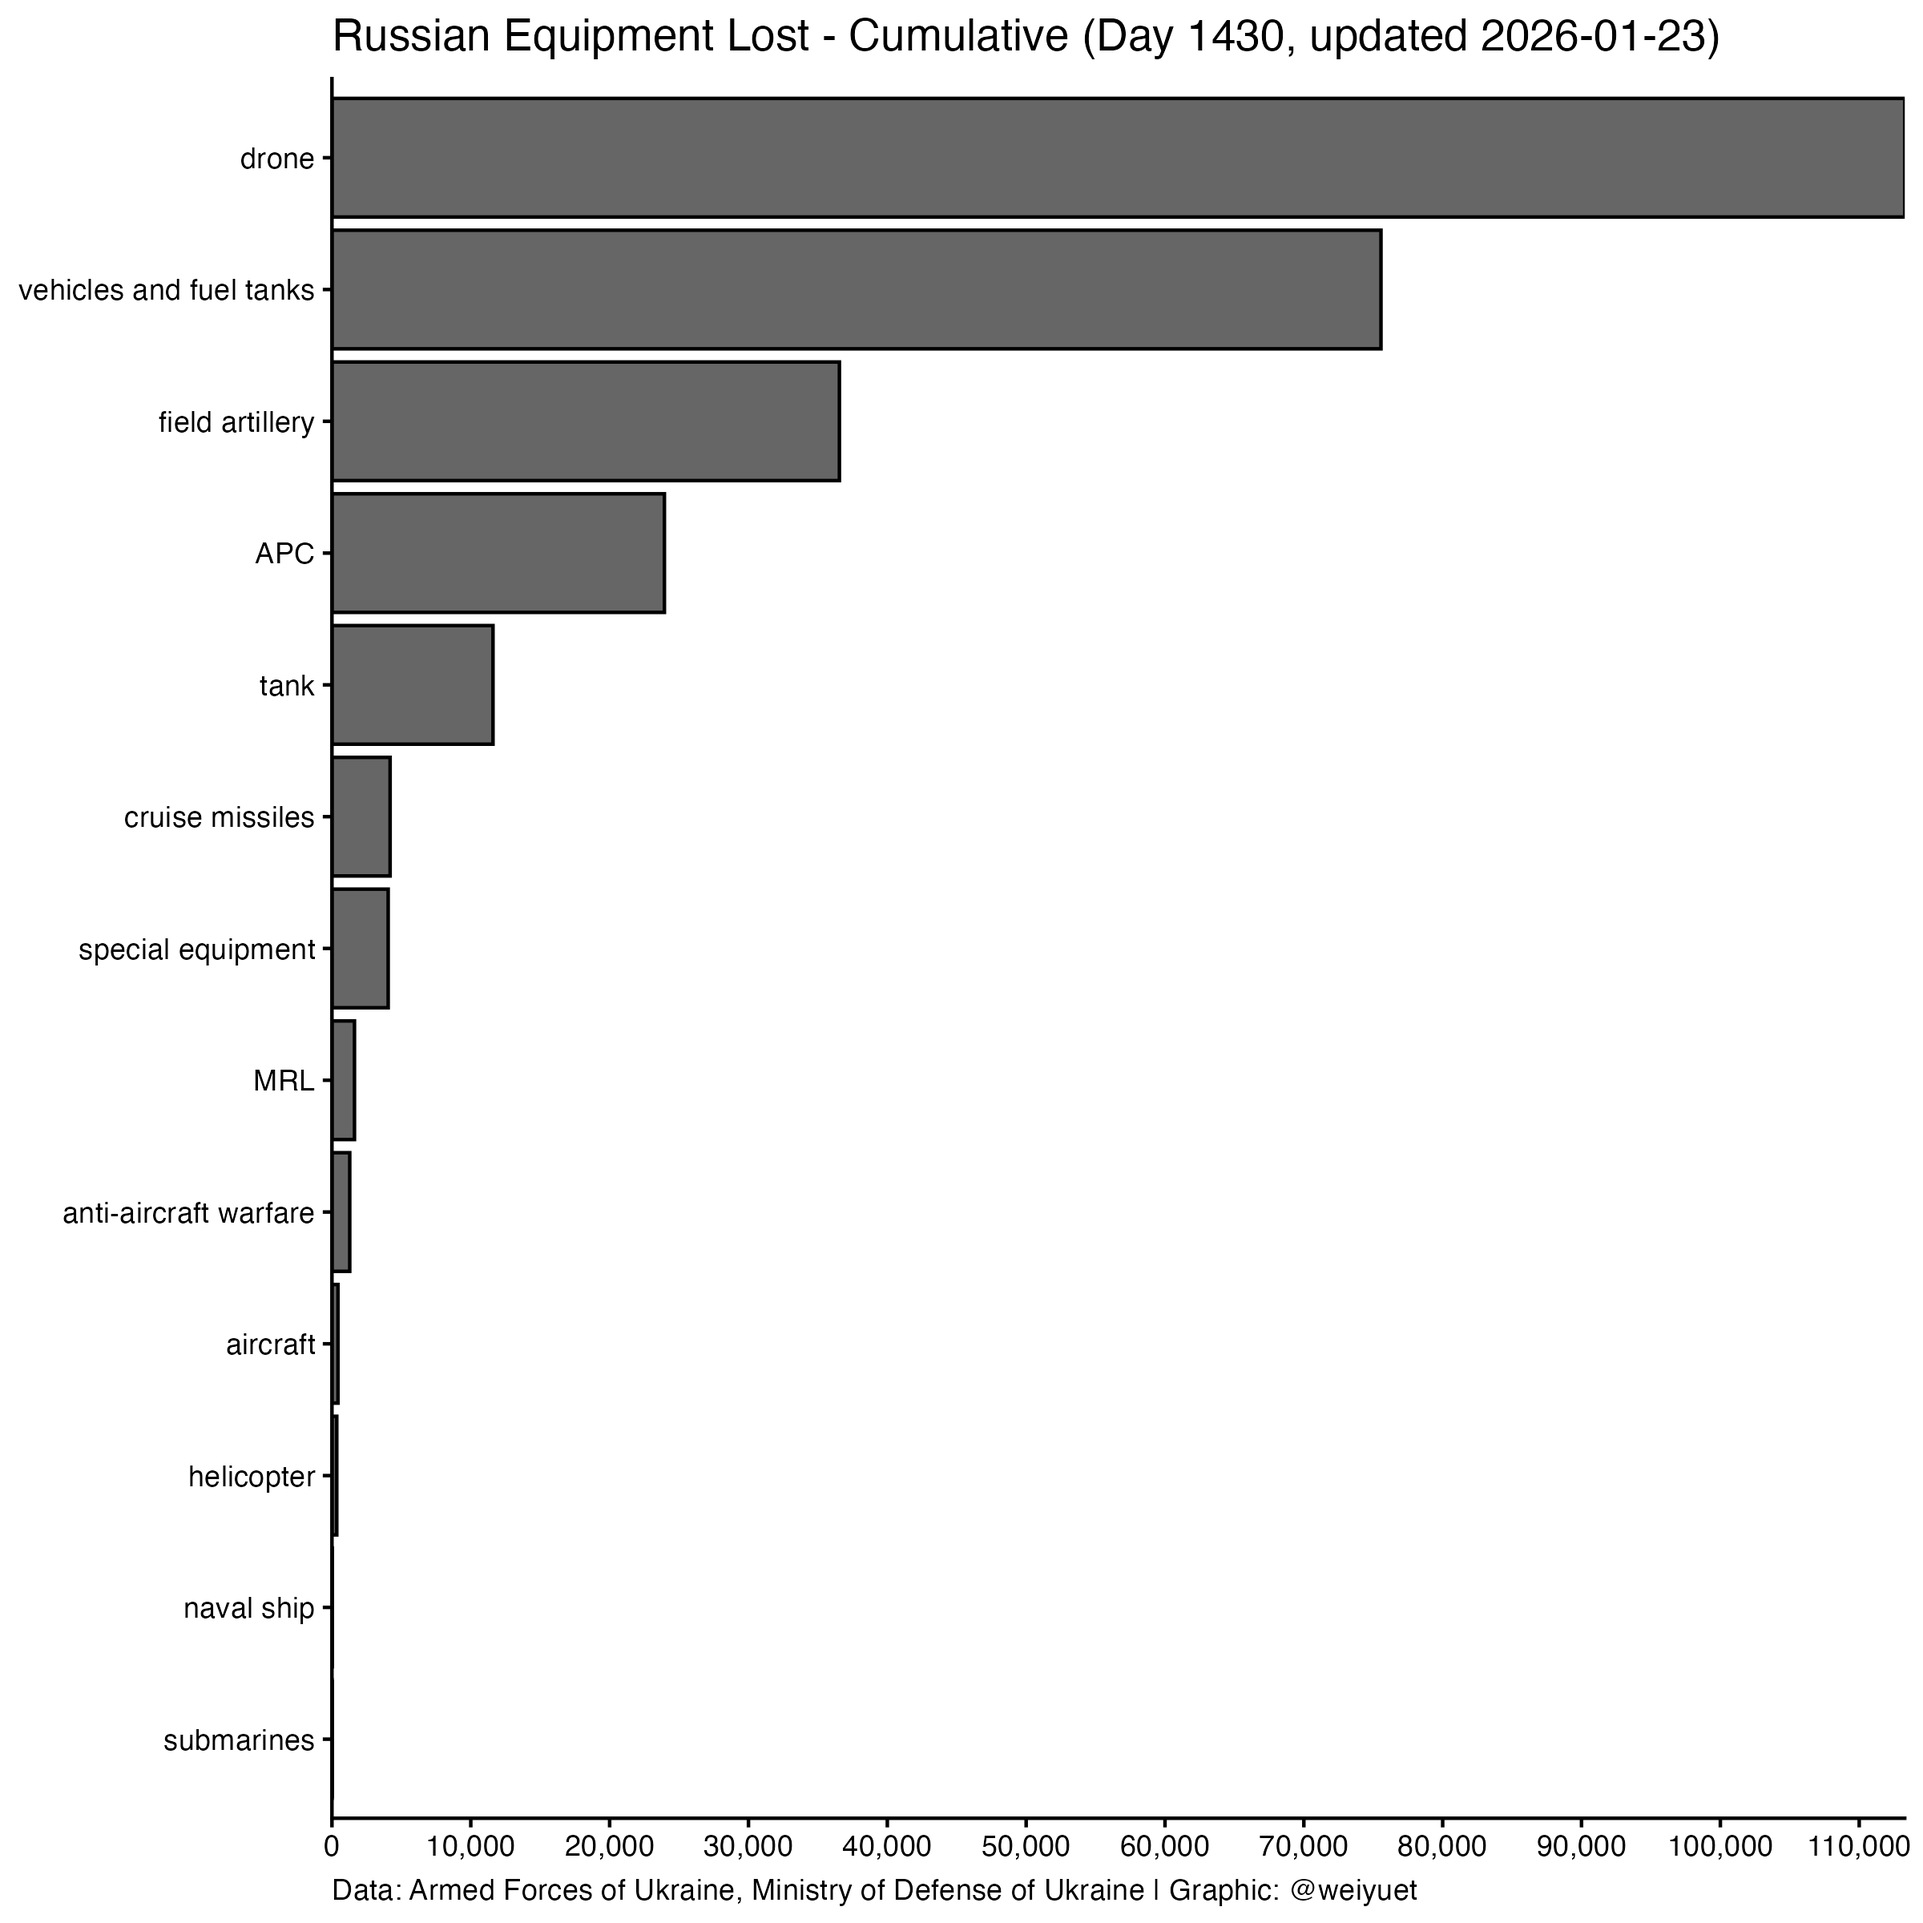
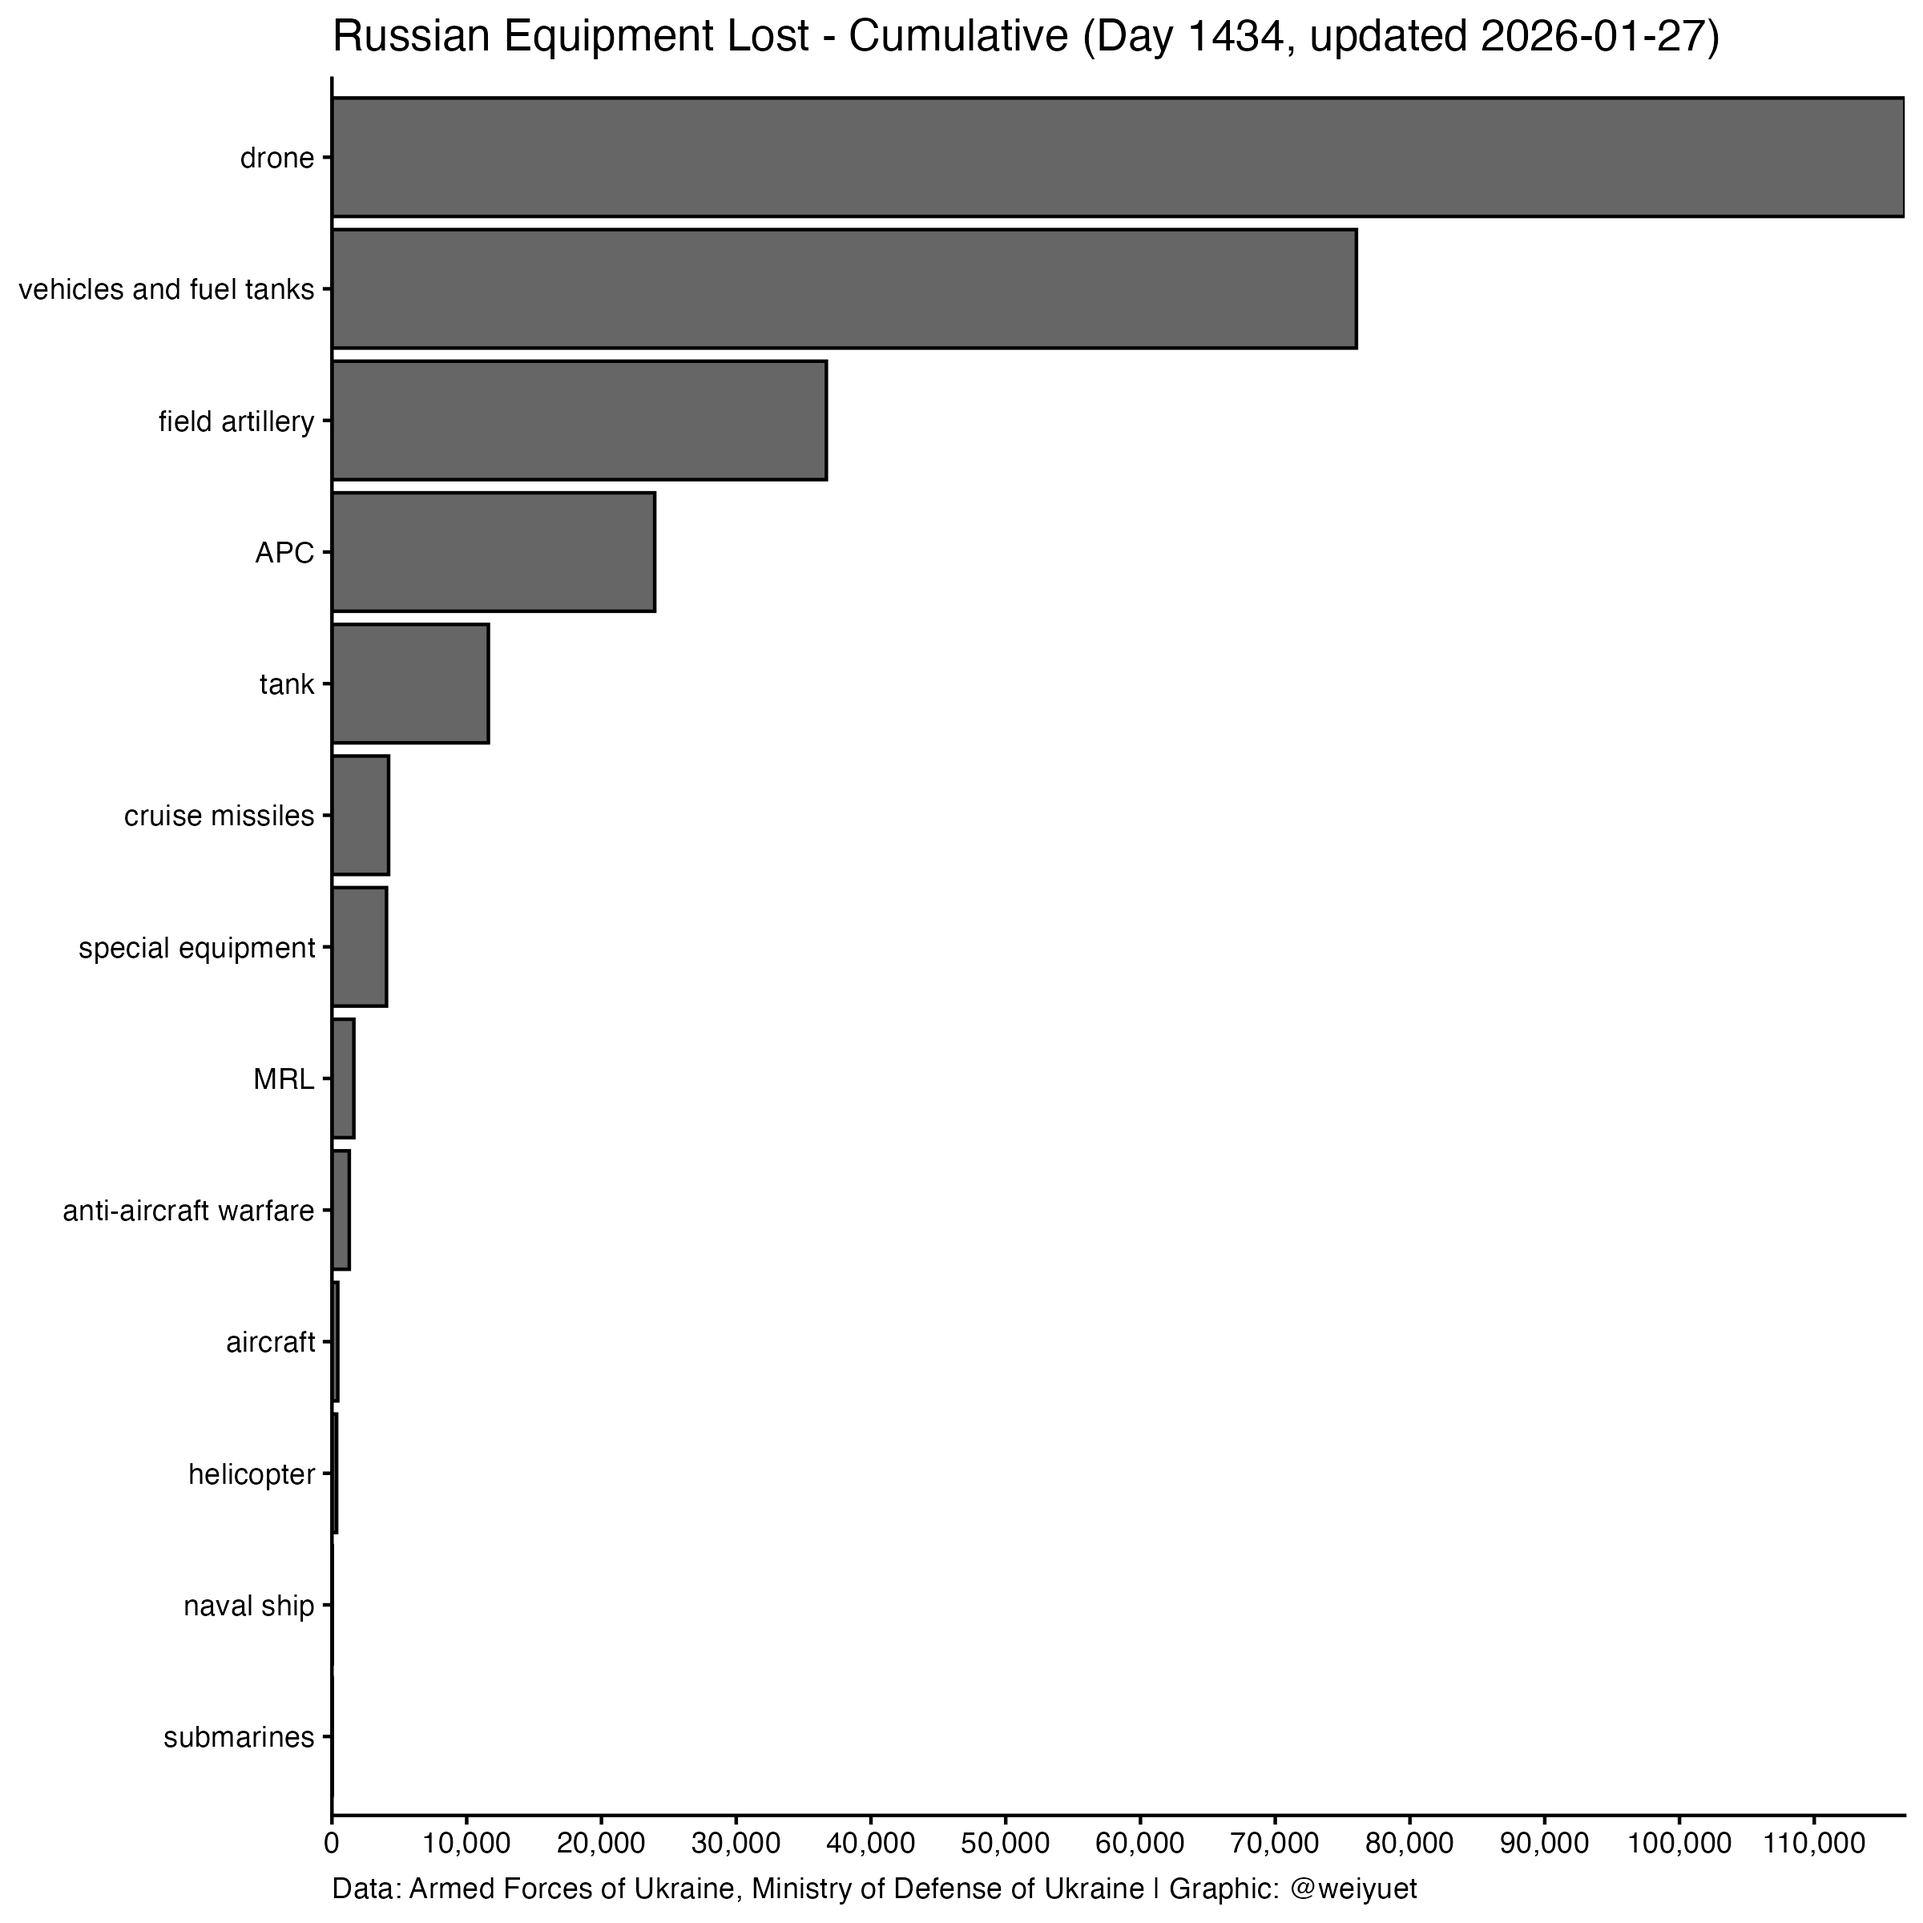
Updated 27 January

diff --git a/README.md b/README.md
@@ -2,11 +2,11 @@
 
 Created: 2022-05-26
 
-Updated: 2026-01-24
+Updated: 2026-01-27
 
   - First Inspired by [`Lena Sokol's Kaggle`](https://www.kaggle.com/code/sokolheavy/2022-ukraine-russia-war-visualization).
 
-  - Data source from [`Petro Ivanyuk's Kaggle`](https://www.kaggle.com/datasets/piterfm/2022-ukraine-russian-war). All data is official and put together by `Petro`.
+  - Data from [`Petro Ivanyuk's Kaggle`](https://www.kaggle.com/datasets/piterfm/2022-ukraine-russian-war). All data is official and put together by `Petro`.
 
   - From 2026-01-19, data is read directly from [`Petro Ivanyuk's GitHub`](https://github.com/PetroIvaniuk/2022-Ukraine-Russia-War-Dataset) in JSON format. I will no longer keep a local copy of the CSV data.
 
